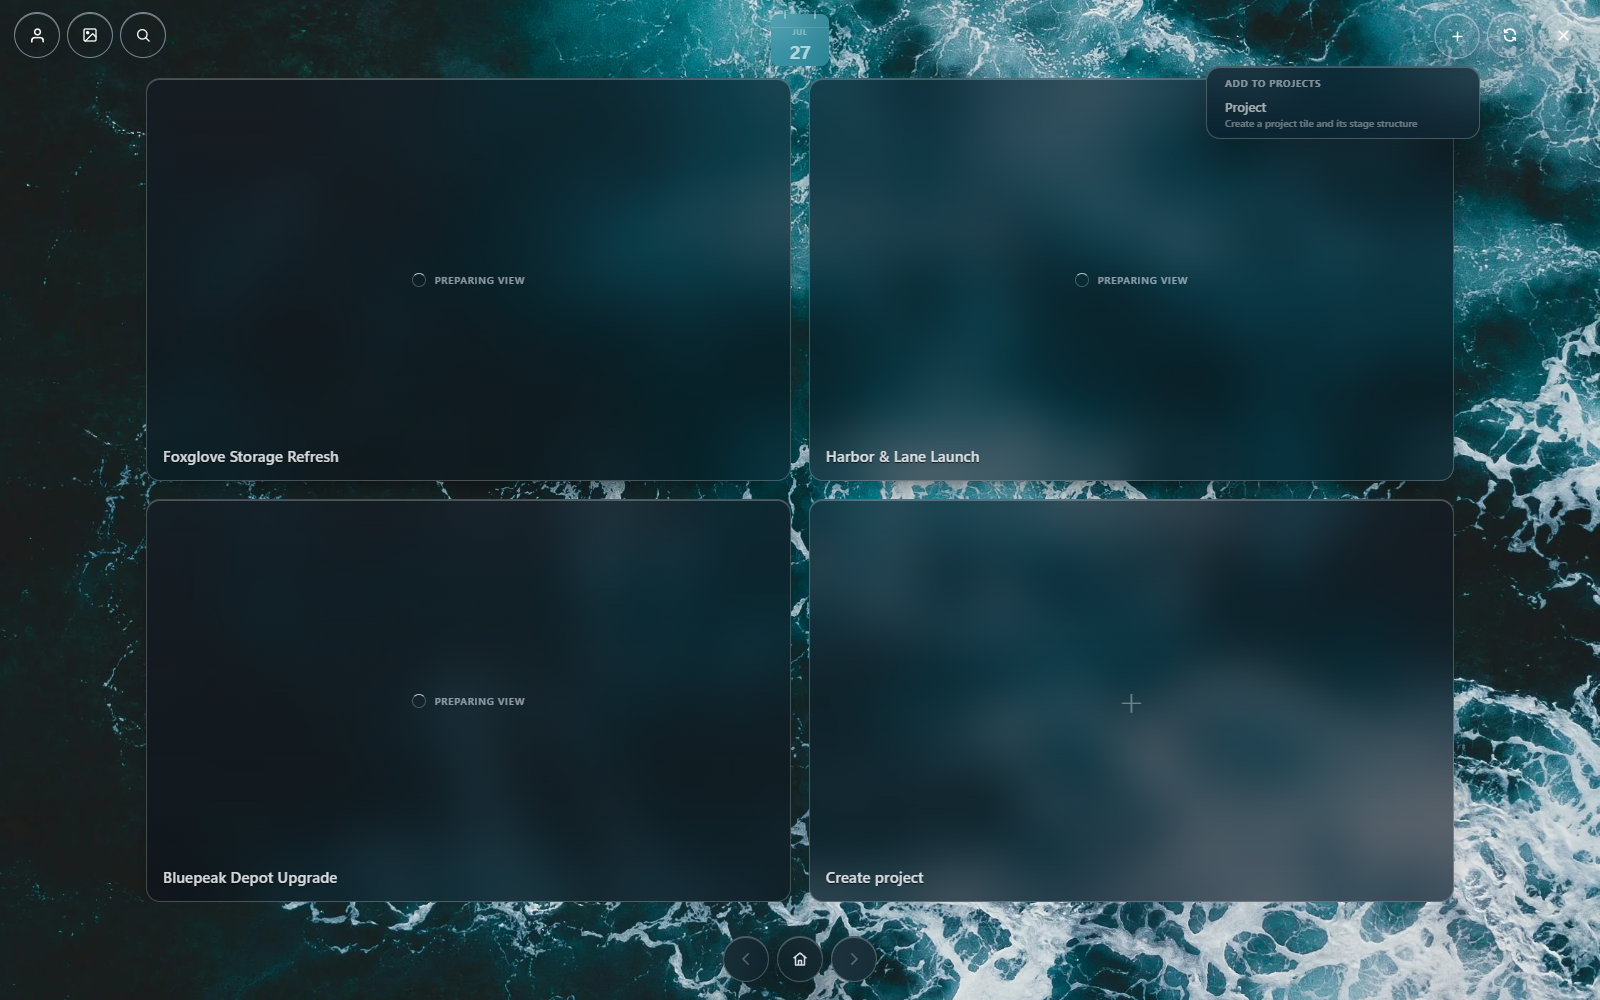
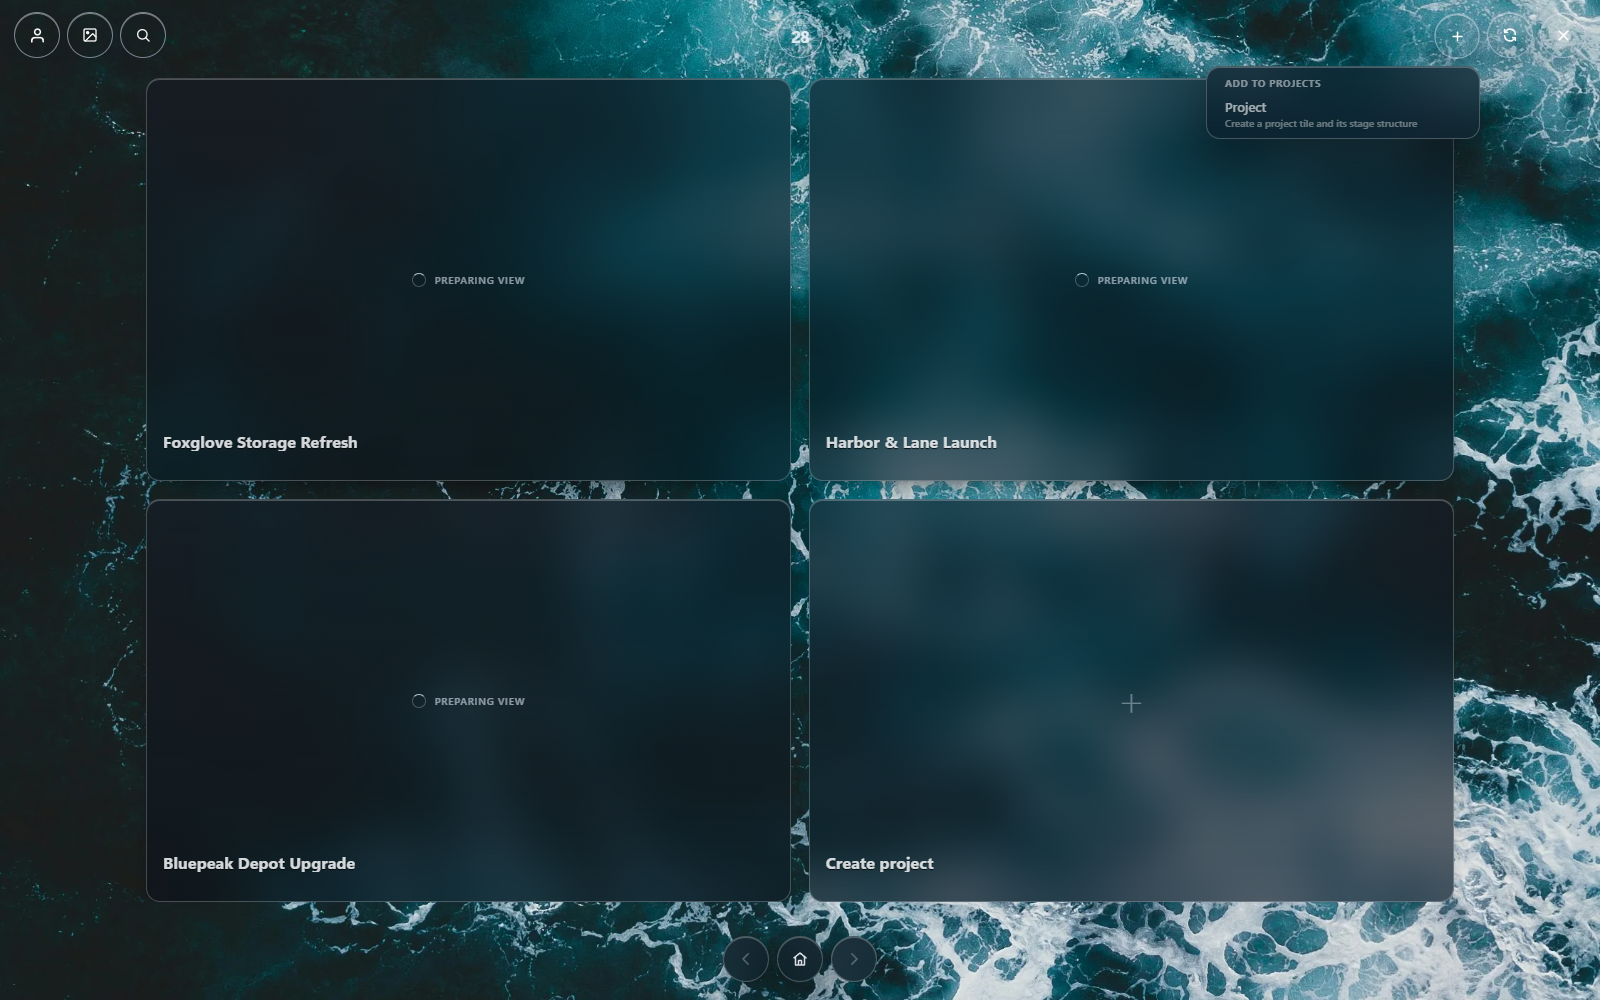
fix: recover CRM chrome hierarchy

diff --git a/dashboard/app/static/crm-card-date.js b/dashboard/app/static/crm-card-date.js
@@ -34,12 +34,10 @@
   const ensureStyles = () => {
     if (document.getElementById("crm-viewport-date-styles")) return;
     const style = document.createElement("style"); style.id = "crm-viewport-date-styles"; style.textContent = `
-      .crm-viewport-date{appearance:none;box-sizing:border-box;position:fixed;z-index:9400;left:50%;top:14px;translate:-50% 0;width:58px;height:52px;padding:11px 4px 4px;border:1px solid rgba(225,237,252,.2);border-radius:15px;background:linear-gradient(160deg,rgba(28,37,51,.68),rgba(10,16,25,.56));color:rgba(245,249,255,.84);display:grid;grid-template-rows:11px 1fr;place-items:center;cursor:pointer;box-shadow:inset 0 1px rgba(255,255,255,.14),0 16px 30px -22px rgba(0,0,0,.8);-webkit-backdrop-filter:blur(22px) saturate(132%);backdrop-filter:blur(22px) saturate(132%);font:700 var(--crm-type-micro,9px)/1 "Segoe UI Variable Text","Segoe UI",system-ui,sans-serif;transition:color .16s ease,background .16s ease,border-color .16s ease,translate .16s ease,box-shadow .16s ease;-webkit-app-region:no-drag}
+      .crm-viewport-date{appearance:none;box-sizing:border-box;position:fixed;z-index:9400;left:50%;top:12px;translate:-50% 0;width:46px;height:46px;padding:6px 0 3px;color:rgba(245,249,255,.84);display:grid;grid-template-rows:9px 1fr;place-items:center;cursor:pointer;font:700 var(--crm-type-micro,9px)/1 "Segoe UI Variable Text","Segoe UI",system-ui,sans-serif;-webkit-app-region:no-drag}
       .crm-viewport-date[hidden]{display:none}
-      .crm-viewport-date:before{content:"";position:absolute;left:-1px;right:-1px;top:13px;height:1px;background:rgba(225,237,252,.16)}
-      .crm-viewport-date-rings:before,.crm-viewport-date-rings:after{content:"";position:absolute;top:-4px;width:2px;height:9px;border-radius:2px;background:currentColor;opacity:.58}.crm-viewport-date-rings:before{left:13px}.crm-viewport-date-rings:after{right:13px}
-      .crm-viewport-date-month{text-transform:uppercase;font-size:8px;letter-spacing:.1em;opacity:.62}.crm-viewport-date-day{align-self:start;font-size:19px;font-weight:650;font-variant-numeric:tabular-nums;letter-spacing:-.04em}
-      .crm-viewport-date:hover,.crm-viewport-date:focus-visible{outline:0;color:#fff;background:linear-gradient(160deg,rgba(37,49,67,.76),rgba(13,21,32,.64));border-color:rgba(225,237,252,.34);translate:-50% -2px;box-shadow:inset 0 1px rgba(255,255,255,.18),0 18px 34px -22px rgba(0,0,0,.88)}.crm-viewport-date:active{translate:-50% 0}
+      .crm-viewport-date:before,.crm-viewport-date-rings{display:none}
+      .crm-viewport-date-month{text-transform:uppercase;font-size:7px;letter-spacing:.08em;opacity:.62}.crm-viewport-date-day{align-self:start;font-size:17px;font-weight:650;font-variant-numeric:tabular-nums;letter-spacing:-.04em}
     `; document.head.appendChild(style);
   };
   const syncFace = (button, date = new Date()) => {
@@ -52,14 +50,14 @@
   };
   const syncVisibility = (button = document.querySelector(".crm-viewport-date"), key = document.body?.dataset?.crmModule || "home") => {
     if (!button) return false;
-    button.hidden = key === "home";
+    button.hidden = key === "home" || key === "calendar";
     return !button.hidden;
   };
   const mount = () => {
     let button = document.querySelector(".crm-viewport-date");
     if (!button) {
       button = document.createElement("button");
-      button.type = "button"; button.className = "crm-viewport-date"; button.setAttribute("aria-label", "Open Calendar");
+      button.type = "button"; button.className = "crm-viewport-date window-glass-control"; button.setAttribute("aria-label", "Open Calendar");
       button.hidden = true;
       button.innerHTML = '<span class="crm-viewport-date-rings" aria-hidden="true"></span><span class="crm-viewport-date-month" aria-hidden="true"></span><span class="crm-viewport-date-day" aria-hidden="true"></span>';
       button.addEventListener("click", (event) => { event.preventDefault(); event.stopPropagation(); open(new Date()); });

diff --git a/tools/visual/interaction-contract.js b/tools/visual/interaction-contract.js
@@ -94,6 +94,11 @@ async function main() {
     const control = document.querySelector('.crm-viewport-date');
     return !!control && control.hidden && getComputedStyle(control).display === 'none';
   });
+  await check('Legacy status company tabs never mount inside the CRM shell', () => (
+    document.body.dataset.appShell === 'crm'
+      && !document.querySelector('.company-tab-bar')
+      && document.querySelector('.workspace-tab-bar')?.hidden === true
+  ));
   await check('Every Home preview is a proportional viewport of its destination', () => {
     const expected = innerWidth / innerHeight;
     const tiles = [...document.querySelectorAll('.crm-home-grid > .crm-home-bucket')].map((tile) => {
@@ -740,9 +745,13 @@ async function main() {
   await page.waitForFunction(() => document.querySelector('.ticket-detail-overlay[data-card-detail="assignmentDetail"]')?.hidden === true);
   await check('Calendar navigation is one fixed top-center control, never card chrome', () => {
     const controls = [...document.querySelectorAll('.crm-viewport-date')]; const rect = controls[0]?.getBoundingClientRect(); const style = controls[0] && getComputedStyle(controls[0]);
-    return controls.length === 1 && !controls[0].hidden && !document.querySelector('[data-crm-card-date],.crm-card-date') && style?.position === 'fixed'
-      && Math.abs((rect.left + rect.width / 2) - innerWidth / 2) <= 1 && rect.top >= 13 && rect.top <= 15
-      && rect.width >= 57 && rect.height >= 51 && parseFloat(style.fontSize) >= 9;
+    const topControl = document.querySelector('.window-control-cluster .window-glass-control'); const topStyle = topControl && getComputedStyle(topControl);
+    return controls.length === 1 && !controls[0].hidden && controls[0].classList.contains('window-glass-control')
+      && !document.querySelector('[data-crm-card-date],.crm-card-date') && style?.position === 'fixed'
+      && Math.abs((rect.left + rect.width / 2) - innerWidth / 2) <= 1 && rect.top >= 11 && rect.top <= 13
+      && Math.abs(rect.width - 46) <= .5 && Math.abs(rect.height - 46) <= .5 && parseFloat(style.borderRadius) >= 23
+      && !!topStyle && ['backgroundImage','backdropFilter','borderTopColor','borderRadius','boxShadow']
+        .every((property) => style[property] === topStyle[property]);
   });
   await page.click('.crm-viewport-date');
   await page.waitForFunction(() => document.body.dataset.crmModule === 'calendar' && window.fractalCalendar?.level?.() === 1, { timeout:2500 });
@@ -751,6 +760,13 @@ async function main() {
     const pane = document.querySelector(`[data-crm-theater="calendar"] .fc-expander[data-month="${month}"]`);
     return { ok:document.body.dataset.crmModule === 'calendar' && window.fractalCalendar?.level?.() === 1 && pane?.hidden === false && window.fractalCalendar.year() === date.getFullYear(),
       detail:JSON.stringify({ module:document.body.dataset.crmModule, level:window.fractalCalendar?.level?.(), year:window.fractalCalendar?.year?.(), pane:!!pane, hidden:pane?.hidden }) };
+  });
+  await check('Calendar suppresses the redundant date tile above its year arrows', () => {
+    const control = document.querySelector('.crm-viewport-date');
+    const strip = document.querySelector('[data-crm-theater="calendar"]:not([hidden]) .fc-year-strip');
+    const arrows = [...(strip?.querySelectorAll('.fc-year-btn') || [])];
+    return !!control && control.hidden && getComputedStyle(control).display === 'none'
+      && !!strip && arrows.length === 2 && arrows.every((arrow) => arrow.getClientRects().length > 0);
   });
   await activate('assignments');
 

diff --git a/tools/visual/ui-refinement-smoke.js b/tools/visual/ui-refinement-smoke.js
@@ -869,6 +869,21 @@ async function main() {
       invariant(calendarControls.some(({ label }) => label === 'Next year'), 'Calendar Next year control was not found');
       return summary;
     });
+    await check('Calendar year navigation has no overlapping global date tile or legacy company strip', async () => {
+      const state = await page.evaluate(() => {
+        const date = document.querySelector('.crm-viewport-date');
+        const strip = document.querySelector('[data-crm-theater="calendar"]:not([hidden]) .fc-year-strip');
+        return {
+          dateHidden: !!date?.hidden && getComputedStyle(date).display === 'none',
+          stripVisible: !!strip && strip.getClientRects().length > 0,
+          companyTabs: document.querySelectorAll('.company-tab-bar').length,
+        };
+      });
+      invariant(state.dateHidden, 'Global date tile remained visible inside Calendar');
+      invariant(state.stripVisible, 'Calendar year selector is not visible');
+      invariant(state.companyTabs === 0, `Legacy company strip mounted ${state.companyTabs} time(s)`);
+      return state;
+    });
     await screenshot('08-calendar-controls.png');
 
     await check('Renderer completed without uncaught page errors', () => {

diff --git a/dashboard/app/static/status-feed.js b/dashboard/app/static/status-feed.js
@@ -752,8 +752,22 @@ function visibleCompanies() {
   return companyState.companies.filter((c) => !c.historical || c.id === companyState.active);
 }
 function renderCompanyTabs() {
-  injectCompanyCss();
   const wsBar = document.querySelector(".workspace-tab-bar");
+  // This tab strip belongs to the pre-CRM status dashboard. The CRM already
+  // owns company navigation inside People, so mounting the legacy strip here
+  // duplicates that hierarchy above every room and collides with the calendar
+  // controls. Keep the status data bridge alive, but never mount its old chrome
+  // inside the CRM shell.
+  if (document.body?.dataset?.appShell === "crm") {
+    closeOverflowMenu();
+    document.querySelector(".company-tab-bar")?.remove();
+    if (wsBar) {
+      wsBar.hidden = true;
+      wsBar.style.display = "none";
+    }
+    return;
+  }
+  injectCompanyCss();
   if (wsBar) wsBar.style.display = "none"; // company tabs take over the tab strip
   let bar = document.querySelector(".company-tab-bar");
   if (!bar) {

diff --git a/dashboard/index.html b/dashboard/index.html
@@ -65,7 +65,7 @@
   <link rel="stylesheet" href="./app/static/utilities.css">
   <link rel="stylesheet" href="./app/static/interface-parity.css">
 </head>
-<body>
+<body data-app-shell="crm">
   <!-- Loading gate: covers the initial boot (layout + history load + first widget
        render) so the dashboard never shows a half-built/janky UI. Cleared by
        status-feed.js after the first publish renders, with a safety timeout. -->
